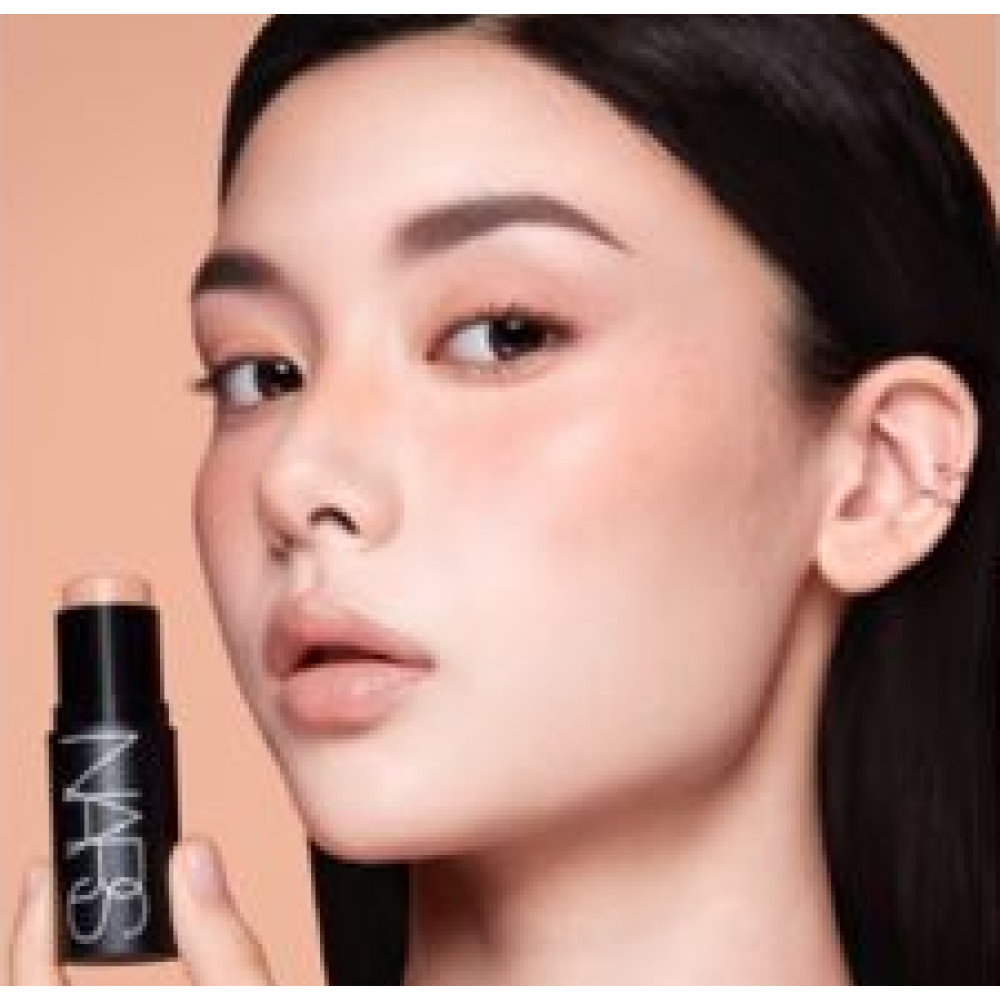
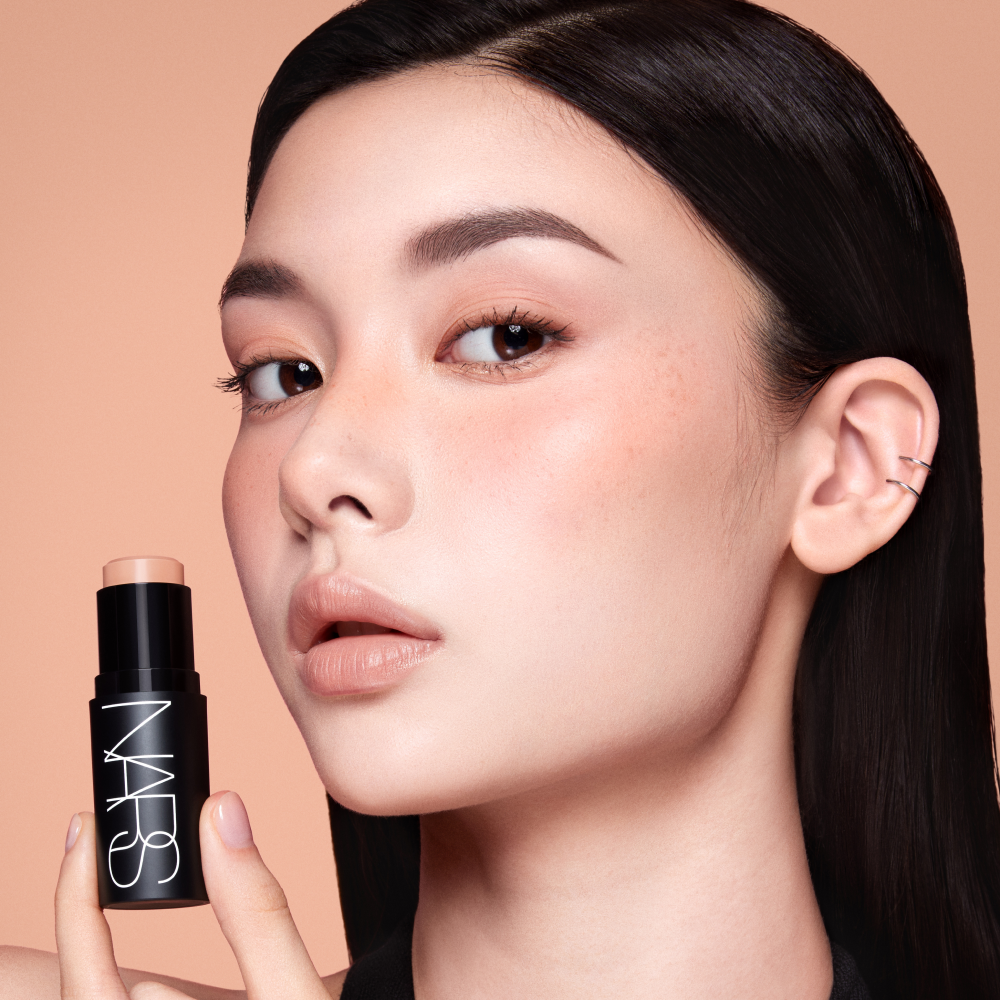
updated welcome page

diff --git a/resources/views/welcome.blade.php b/resources/views/welcome.blade.php
@@ -12,16 +12,16 @@
 </head>
 
 <body class="antialiased main-background welcome-page">
-    <div class="py-3 container-fluid main-content with-scroll">
+    <div class="py-3 container-fluid main-content with-scroll" style="padding-left:13px;padding-right:13px;">
         <div class="row">
             <div class="col-12 d-flex justify-content-center align-items-center animate-entry">
                 @include('components.branding')
             </div>
             <div class="col-12 px-0 text-center py-4">
-                <p><span class="text-black">MONOCHROME</span>.<span class="text-black">MINIMALIST</span>.<span class="text-black">THE MULTIPLE</span></p>
+                <p class="text-black"><span class="text-black">MONOCHROME</span> . <span class="text-black">MINIMALIST</span> . <span class="text-black">THE MULTIPLE</span></p>
             </div>
             <div class="col-12 d-flex justify-content-center align-items-center p-0">
-                <img class="welcome_img_store w-100" src="{{ asset('images/brand/Hero.png') }}"
+                <img class="welcome_img_store w-100" src="{{ asset('images/brand/nars_front_v2.webp') }}"
                     alt="" />
             </div>
             <div class="text-center pt-4 col-12 ">

diff --git a/resources/views/station.blade.php b/resources/views/station.blade.php
@@ -71,7 +71,7 @@
                     </a>
             @endif
             @if($user)
-            <p class="px-4 bottom-text scanner-text text-center text-black">Checked In</p>
+            <p class="mt-4 px-4 bottom-text scanner-text text-center text-black">Checked In</p>
                 <a href="{{ route('dashboard') }}" class="custom-btn custom-btn-secondary mt-3">
                     Back
                 </a>
